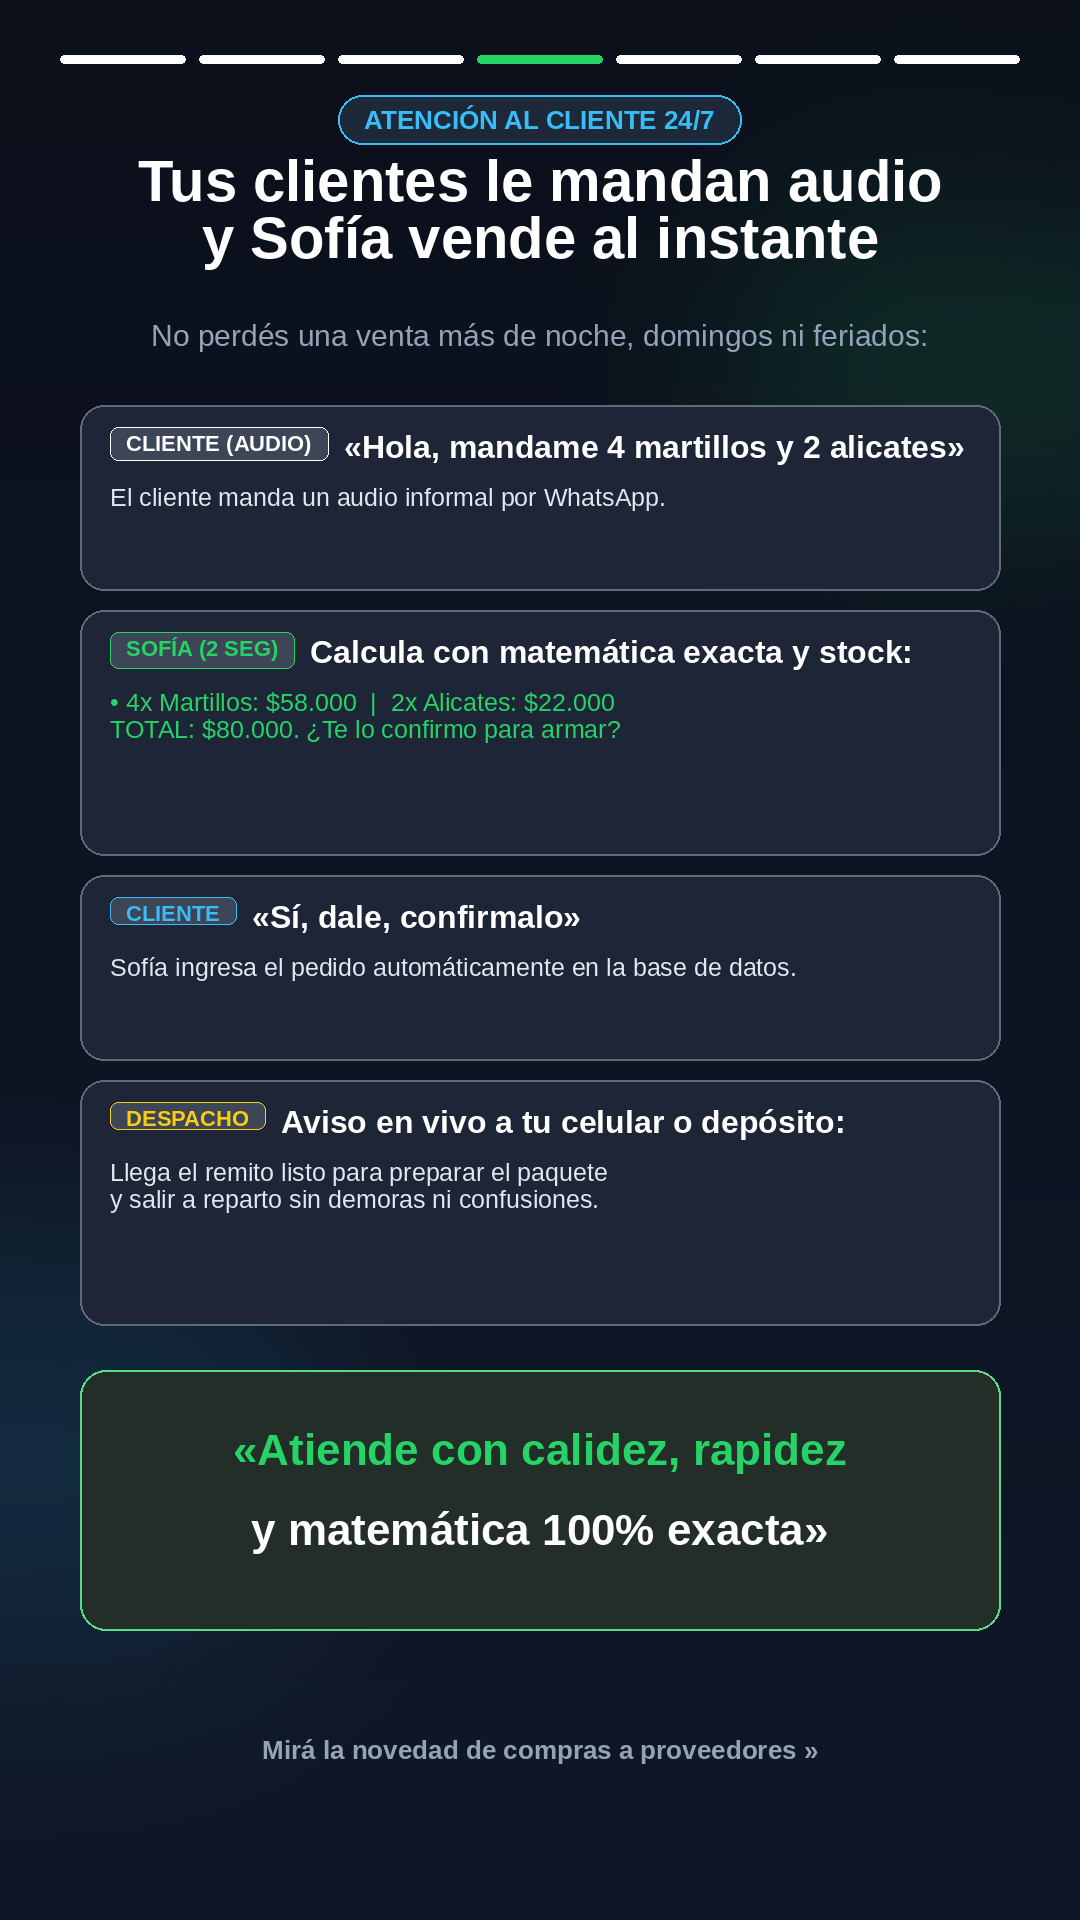
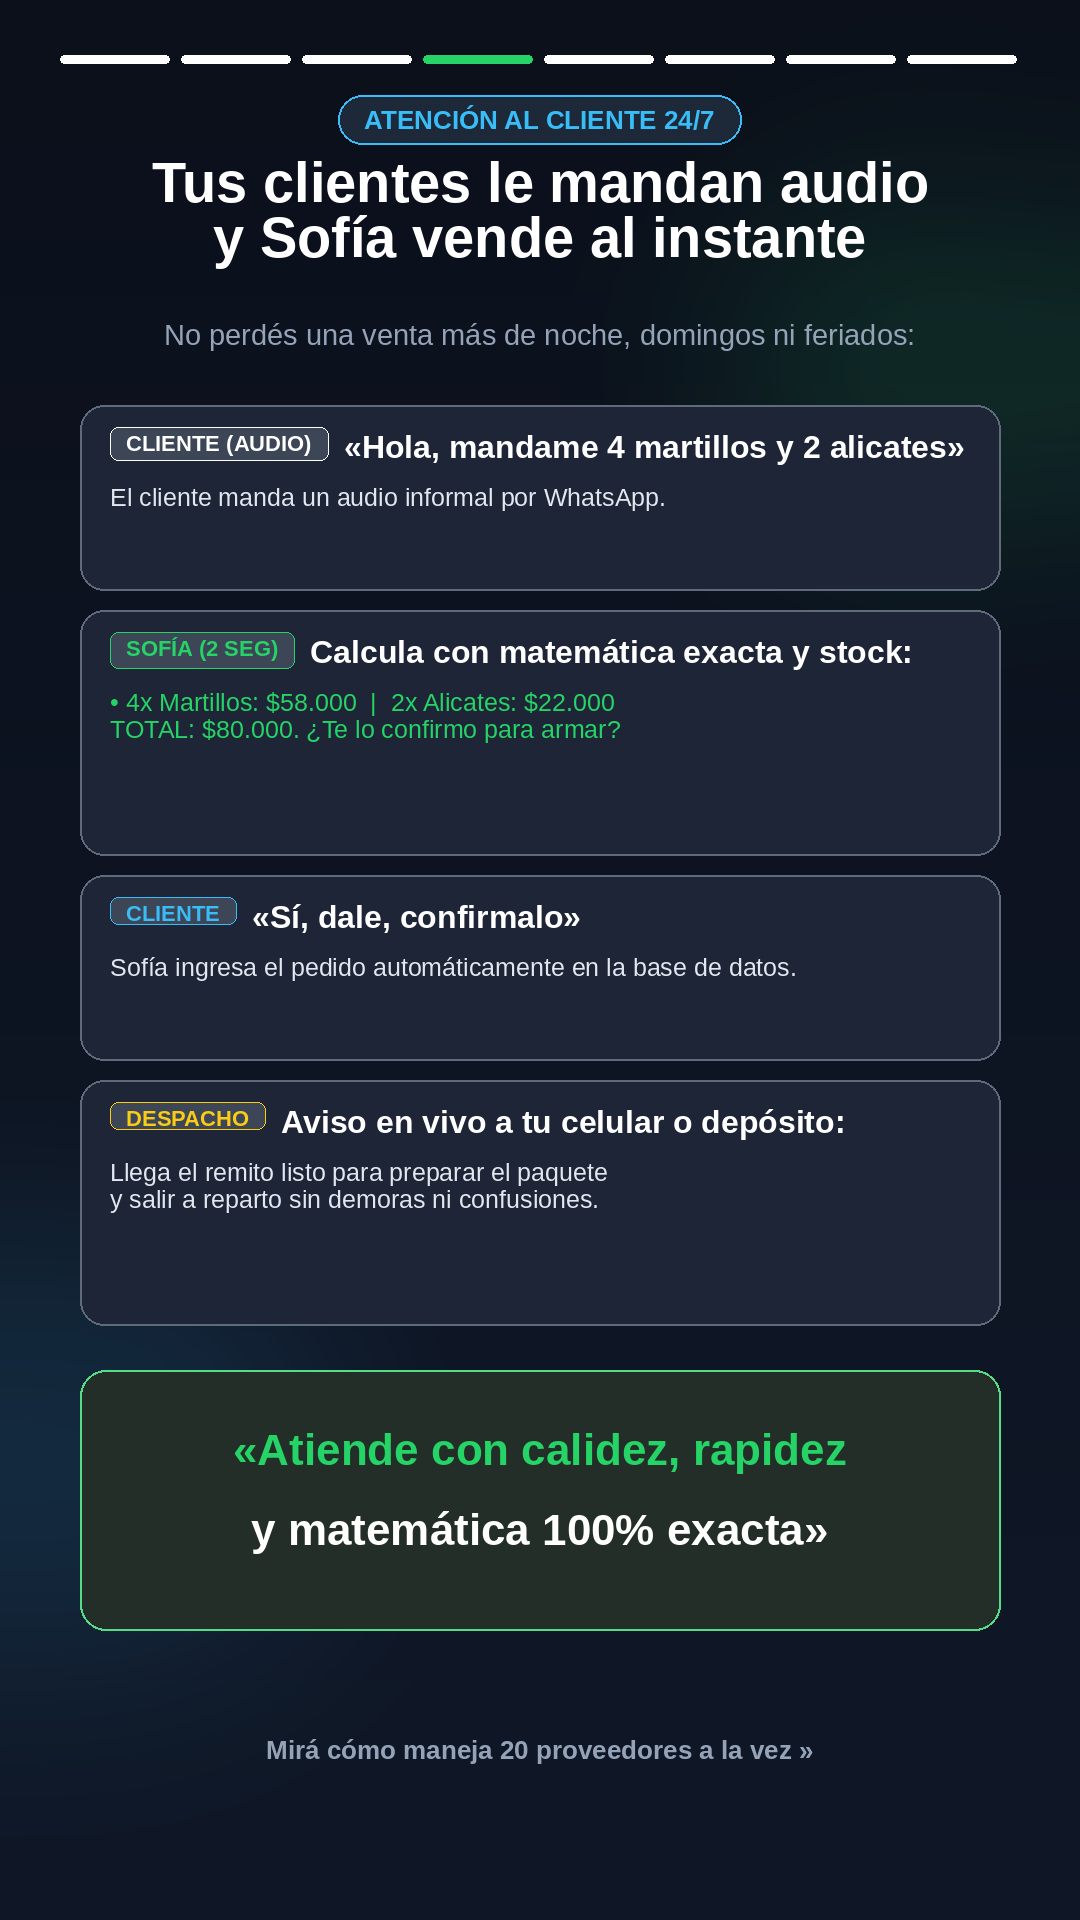
feat: add 20 suppliers hub wow slide to story sequence (8 full slides)

diff --git a/assets/generate_social_slides_v2.py b/assets/generate_social_slides_v2.py
@@ -1,5 +1,4 @@
 import os
-import shutil
 from PIL import Image, ImageDraw, ImageFont, ImageFilter
 
 FONT_BOLD = "/usr/share/fonts/truetype/liberation/LiberationSans-Bold.ttf"
@@ -9,10 +8,10 @@ def get_fonts():
     return {
         "tag": ImageFont.truetype(FONT_BOLD, 26),
         "pill": ImageFont.truetype(FONT_BOLD, 22),
-        "title_xl": ImageFont.truetype(FONT_BOLD, 58),
+        "title_xl": ImageFont.truetype(FONT_BOLD, 56),
         "title": ImageFont.truetype(FONT_BOLD, 44),
         "card_title": ImageFont.truetype(FONT_BOLD, 32),
-        "subtitle": ImageFont.truetype(FONT_REGULAR, 30),
+        "subtitle": ImageFont.truetype(FONT_REGULAR, 29),
         "body_bold": ImageFont.truetype(FONT_BOLD, 26),
         "body": ImageFont.truetype(FONT_REGULAR, 25),
         "caption": ImageFont.truetype(FONT_REGULAR, 22),
@@ -42,13 +41,13 @@ def create_base_canvas():
     img = Image.alpha_composite(img, glow)
     return img
 
-def draw_story_bars(draw, active_index, total=7):
-    bar_w = int((1080 - 120 - (total - 1) * 14) / total)
+def draw_story_bars(draw, active_index, total=8):
+    bar_w = int((1080 - 120 - (total - 1) * 12) / total)
     bar_h = 8
     start_x = 60
     y = 55
     for i in range(total):
-        x = start_x + i * (bar_w + 14)
+        x = start_x + i * (bar_w + 12)
         if i == active_index:
             color = (37, 211, 102, 255)
         elif i < active_index:
@@ -104,7 +103,7 @@ def get_circular_avatar(size=260):
 def build_slide_1():
     img = create_base_canvas()
     draw = ImageDraw.Draw(img)
-    draw_story_bars(draw, 0)
+    draw_story_bars(draw, 0, total=8)
     draw_header_badge(draw, "SOFÍA 2.0 • ASISTENTE PARA COMERCIOS")
     fonts = get_fonts()
     
@@ -148,7 +147,7 @@ def build_slide_1():
 def build_slide_2():
     img = create_base_canvas()
     draw = ImageDraw.Draw(img)
-    draw_story_bars(draw, 1)
+    draw_story_bars(draw, 1, total=8)
     draw_header_badge(draw, "EL DOLOR DE TODO NEGOCIO", color=(248, 113, 113))
     fonts = get_fonts()
     
@@ -182,7 +181,7 @@ def build_slide_2():
 def build_slide_3():
     img = create_base_canvas()
     draw = ImageDraw.Draw(img)
-    draw_story_bars(draw, 2)
+    draw_story_bars(draw, 2, total=8)
     draw_header_badge(draw, "CHAU HORAS DE EXCEL MANUAL", color=(52, 211, 153))
     fonts = get_fonts()
     
@@ -216,7 +215,7 @@ def build_slide_3():
 def build_slide_4():
     img = create_base_canvas()
     draw = ImageDraw.Draw(img)
-    draw_story_bars(draw, 3)
+    draw_story_bars(draw, 3, total=8)
     draw_header_badge(draw, "ATENCIÓN AL CLIENTE 24/7", color=(56, 189, 248))
     fonts = get_fonts()
     
@@ -243,30 +242,65 @@ def build_slide_4():
     draw.text((540, 1450), "«Atiende con calidez, rapidez", fill=(37, 211, 102), font=fonts["title"], anchor="mm")
     draw.text((540, 1530), "y matemática 100% exacta»", fill=(255, 255, 255), font=fonts["title"], anchor="mm")
 
-    draw.text((540, 1750), "Mirá la novedad de compras a proveedores »", fill=(148, 163, 184), font=fonts["body_bold"], anchor="mm")
+    draw.text((540, 1750), "Mirá cómo maneja 20 proveedores a la vez »", fill=(148, 163, 184), font=fonts["body_bold"], anchor="mm")
     return img
 
 # ==============================================================================
-# SLIDE 5: CANASTAS MULTIPROVEEDOR & REMITO PDF (LA BOMBA)
+# SLIDE 5: ¿TENÉS 20 PROVEEDORES? MANEJALOS EN UN SOLO LUGAR (¡EL EFECTO WOW!)
 # ==============================================================================
-def build_slide_5():
+def build_slide_proveedores_hub():
     img = create_base_canvas()
     draw = ImageDraw.Draw(img)
-    draw_story_bars(draw, 4)
-    draw_header_badge(draw, "COMPRAS AUTOMATIZADAS", color=(250, 204, 21))
+    draw_story_bars(draw, 4, total=8)
+    draw_header_badge(draw, "EL HUB DE TUS PROVEEDORES • CERO PAPELES", color=(251, 146, 60))
     fonts = get_fonts()
     
-    draw.text((540, 210), "Le hace los pedidos a tus\nproveedores con remito PDF", fill=(255, 255, 255), font=fonts["title_xl"], anchor="mm", align="center")
-    draw.text((540, 335), "La función estrella para ferreterías, almacenes y kioscos:", fill=(148, 163, 184), font=fonts["subtitle"], anchor="mm")
+    draw.text((540, 210), "¿Tenés 20 proveedores?\nManejá todo en un solo chat", fill=(255, 255, 255), font=fonts["title_xl"], anchor="mm", align="center")
+    draw.text((540, 335), "Una canasta inteligente en WhatsApp para cada distribuidora:", fill=(148, 163, 184), font=fonts["subtitle"], anchor="mm")
 
-    cards = [
-        ("1. ANOTÁS AL PASO", "Guardá faltantes por nota de voz", "Durante el día decís: «Sofi, anotá para la Bulonera 5 cajas de tornillos».\nElla lo acumula en la canasta de compras de ese proveedor."),
-        ("2. DESPACHO EN 1 SEGUNDO", "Despachale cuando vos decidas", "Cuando querés mandar el pedido le decís:\n«Sofi, mandale el pedido a Distribuidora Alem». Y listo."),
-        ("3. REMITO FORMAL EN PDF", "Membrete profesional de tu negocio", "Sofía arma una orden con membrete, cantidades y total,\ny se la envía por WhatsApp al proveedor en el acto.")
+    baskets = [
+        ("BULONERA LITORAL", "«Sofi, anotá 4 cajas de tornillos y 2 pinzas»", "📦 Acumulado: 6 artículos listos para pedir.", (56, 189, 248)),
+        ("DISTRIBUIDORA QUILMES", "«Sofi, sumá 10 cajones y 5 packs de agua»", "📦 Acumulado: 15 bultos para el próximo camión.", (250, 204, 21)),
+        ("PINTURAS LITORAL", "«Sofi, agregá 3 baldes de látex blanco 20L»", "📦 Acumulado: 3 artículos en espera.", (168, 85, 247))
     ]
 
     y = 405
-    for tag, title, desc in cards:
+    for tag, voice_cmd, desc, accent in baskets:
+        draw.rounded_rectangle([80, y, 1000, y + 265], radius=26, fill=(17, 24, 39, 235), outline=(accent[0], accent[1], accent[2], 160), width=2)
+        pw = draw_pill(draw, tag, 115, y + 24, bg=(accent[0], accent[1], accent[2], 30), border=accent, text_color=accent)
+        draw.text((115, y + 80), voice_cmd, fill=(255, 255, 255), font=fonts["card_title"])
+        draw.text((115, y + 142), desc, fill=(226, 232, 240), font=fonts["body"])
+        draw.text((115, y + 198), "💡 Guardado automáticamente por nota de voz", fill=accent, font=fonts["caption"])
+        y += 290
+
+    draw.rounded_rectangle([80, 1315, 1000, 1615], radius=26, fill=(15, 34, 25, 245), outline=(37, 211, 102, 220), width=2)
+    draw.text((540, 1385), "Antes de que pase el preventista:", fill=(37, 211, 102), font=fonts["title"], anchor="mm")
+    draw.text((540, 1485), "Le decís: «Sofi, ¿qué tenemos para pedirle a la Bulonera?»\ny te canta la lista completa en segundos. Cero olvidos.", fill=(255, 255, 255), font=fonts["subtitle"], anchor="mm", align="center")
+
+    draw.text((540, 1750), "Mirá cómo despacha los remitos en PDF »", fill=(37, 211, 102), font=fonts["body_bold"], anchor="mm")
+    return img
+
+# ==============================================================================
+# SLIDE 6: DESPACHO CON REMITO EN PDF AL MAYORISTA
+# ==============================================================================
+def build_slide_despacho_remito():
+    img = create_base_canvas()
+    draw = ImageDraw.Draw(img)
+    draw_story_bars(draw, 5, total=8)
+    draw_header_badge(draw, "ORDEN FORMAL CON REMITO PDF", color=(250, 204, 21))
+    fonts = get_fonts()
+    
+    draw.text((540, 210), "Despachale al mayorista\ncon una sola frase", fill=(255, 255, 255), font=fonts["title_xl"], anchor="mm", align="center")
+    draw.text((540, 335), "El proveedor recibe una orden de compra profesional:", fill=(148, 163, 184), font=fonts["subtitle"], anchor="mm")
+
+    cards = [
+        ("1. LA ORDEN", "Le hablás a Sofía por WhatsApp:", "«Sofi, mandale el pedido formal a Distribuidora Alem».\nNo tenés que redactar nada ni buscar el número.", (255, 255, 255)),
+        ("2. EL REMITO", "Genera el Remito membretado en PDF:", "Con el nombre de tu comercio, logo, detalle de bultos,\ncantidades exactas y fecha de entrega solicitada.", (56, 189, 248)),
+        ("3. EL ENVÍO", "Llega al WhatsApp del mayorista en vivo:", "Sofía se lo envía por WhatsApp al encargado del mayorista\ncon la plantilla oficial y el PDF adjunto al instante.", (37, 211, 102))
+    ]
+
+    y = 405
+    for tag, title, desc, accent in cards:
         draw.rounded_rectangle([80, y, 1000, y + 265], radius=26, fill=(17, 24, 39, 230), outline=(250, 204, 21, 150), width=2)
         pw = draw_pill(draw, tag, 120, y + 26, bg=(250, 204, 21, 30), border=(250, 204, 21, 200), text_color=(250, 204, 21))
         draw.text((120, y + 78), title, fill=(255, 255, 255), font=fonts["card_title"])
@@ -274,19 +308,19 @@ def build_slide_5():
         y += 290
 
     draw.rounded_rectangle([80, 1315, 1000, 1615], radius=26, fill=(15, 23, 42, 240), outline=(37, 211, 102, 200), width=2)
-    draw.text((540, 1385), "Tu negocio gana estatus y rapidez", fill=(37, 211, 102), font=fonts["title"], anchor="mm")
-    draw.text((540, 1485), "Tu mayorista recibe una orden impecable en PDF,\nte despacha primero y nunca más te falta mercadería.", fill=(255, 255, 255), font=fonts["subtitle"], anchor="mm", align="center")
+    draw.text((540, 1385), "Tu negocio gana estatus y prioridad", fill=(37, 211, 102), font=fonts["title"], anchor="mm")
+    draw.text((540, 1485), "Tu mayorista recibe un pedido prolijo e impecable.\nTe preparan el pedido antes y no hay confusiones.", fill=(255, 255, 255), font=fonts["subtitle"], anchor="mm", align="center")
 
     draw.text((540, 1750), "Mirá el Modo Dueño »", fill=(37, 211, 102), font=fonts["body_bold"], anchor="mm")
     return img
 
 # ==============================================================================
-# SLIDE 6: MODO DUEÑO: CONTROL TOTAL POR WHATSAPP
+# SLIDE 7: MODO DUEÑO: CONTROL TOTAL POR WHATSAPP
 # ==============================================================================
-def build_slide_6():
+def build_slide_modo_dueno():
     img = create_base_canvas()
     draw = ImageDraw.Draw(img)
-    draw_story_bars(draw, 5)
+    draw_story_bars(draw, 6, total=8)
     draw_header_badge(draw, "MODO DUEÑO • CONTROL TOTAL", color=(168, 85, 247))
     fonts = get_fonts()
     
@@ -315,12 +349,12 @@ def build_slide_6():
     return img
 
 # ==============================================================================
-# SLIDE 7: OFERTA IRRESISTIBLE & CIERRE (CTA)
+# SLIDE 8: OFERTA IRRESISTIBLE & CIERRE (CTA)
 # ==============================================================================
-def build_slide_7():
+def build_slide_cta():
     img = create_base_canvas()
     draw = ImageDraw.Draw(img)
-    draw_story_bars(draw, 6)
+    draw_story_bars(draw, 7, total=8)
     draw_header_badge(draw, "LANZAMIENTO EXCLUSIVO COMERCIOS", color=(37, 211, 102))
     fonts = get_fonts()
     
@@ -370,9 +404,10 @@ def main():
         ("slide_2_problema.png", build_slide_2),
         ("slide_3_actualizacion_precios.png", build_slide_3),
         ("slide_4_pedidos_audio.png", build_slide_4),
-        ("slide_5_pedidos_proveedores.png", build_slide_5),
-        ("slide_6_modo_dueno.png", build_slide_6),
-        ("slide_7_cta_oferta.png", build_slide_7),
+        ("slide_5_hub_20_proveedores.png", build_slide_proveedores_hub),
+        ("slide_6_pedidos_proveedores.png", build_slide_despacho_remito),
+        ("slide_7_modo_dueno.png", build_slide_modo_dueno),
+        ("slide_8_cta_oferta.png", build_slide_cta),
     ]
     
     for filename, builder in builders:
